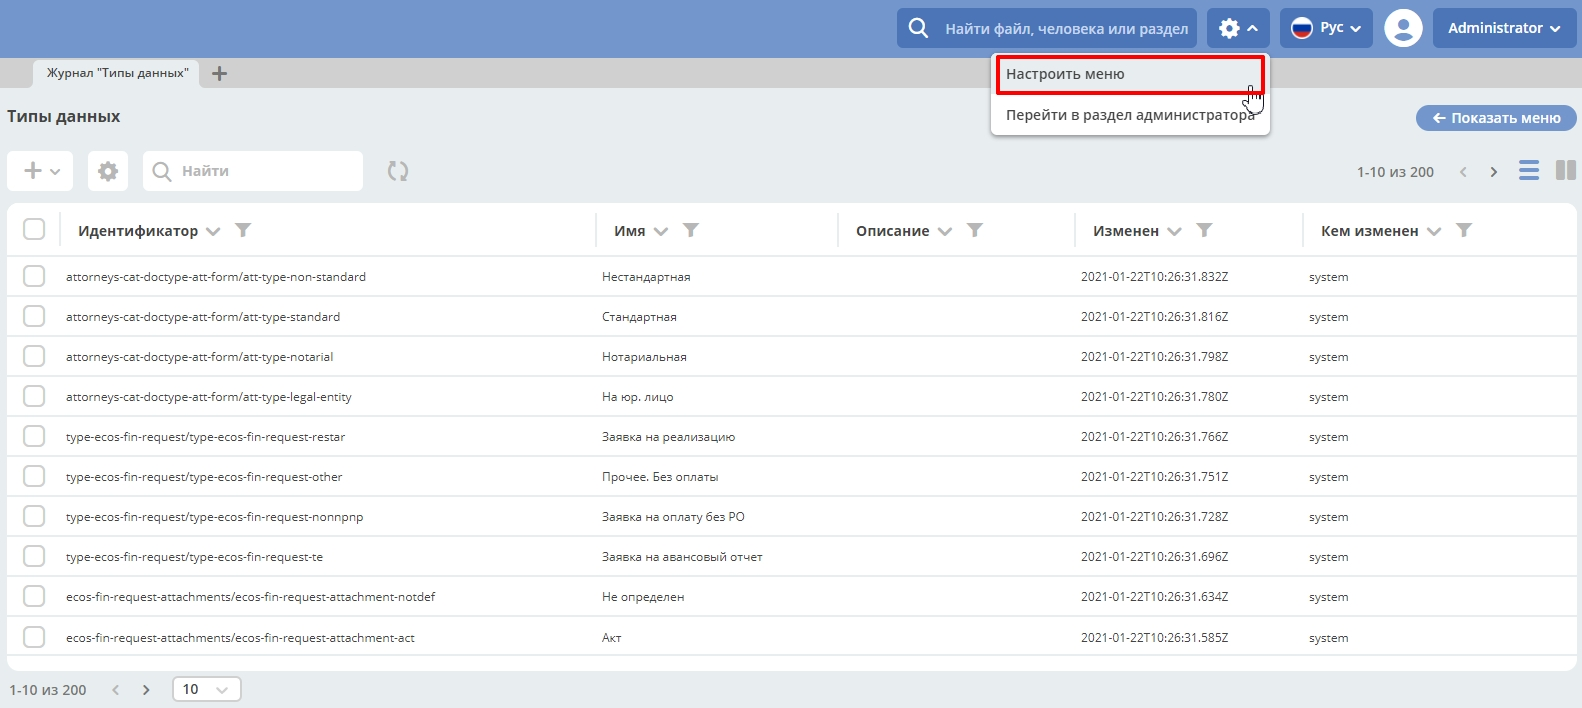
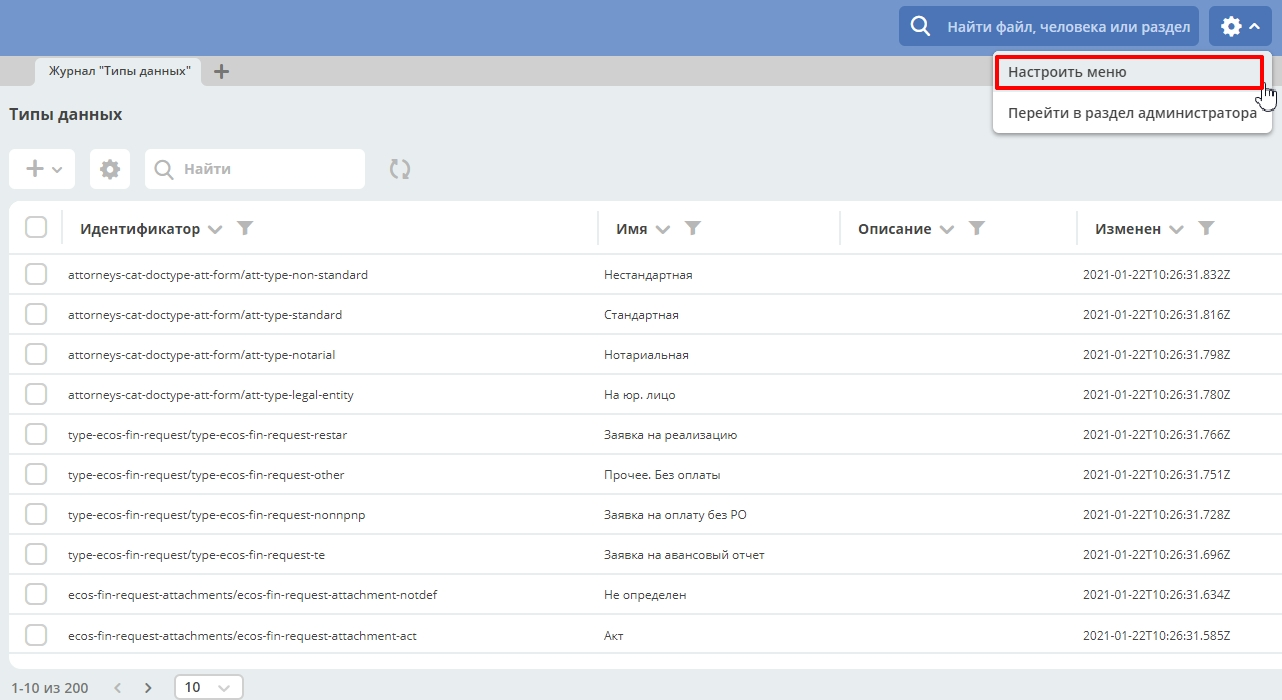
Update images

diff --git a/docs/процесс_оффера.rst b/docs/процесс_оффера.rst
@@ -649,8 +649,8 @@ Record Ref - заполняется значением - dict@ecos:case
 Переходим в настройку меню, нажав на шестеренку, потом на кнопку "Настроить меню" справа сверху.
 
 .. image:: _static/Кнопка_настройки_меню.jpg
-        :scale: 100 %
-        :align: center
+        :scale: 80 %
+        :align: left
 
 Выбираем элемент меню, в котором будет находится "Офер".
 Наводим на элемент и нажимаем кнопку "Добавить", выбираем "Журнал", из списка выбираем необходимый журнал.
